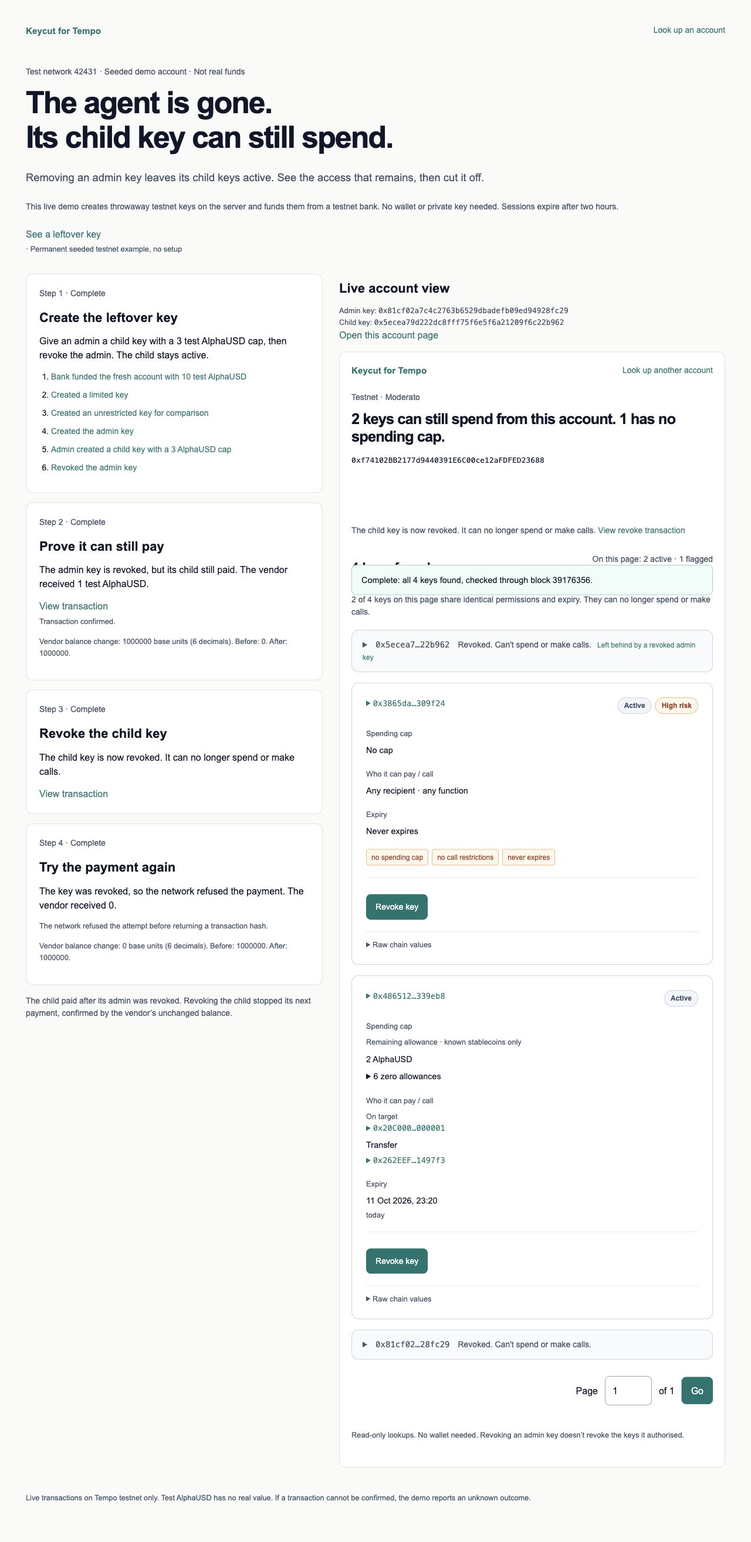
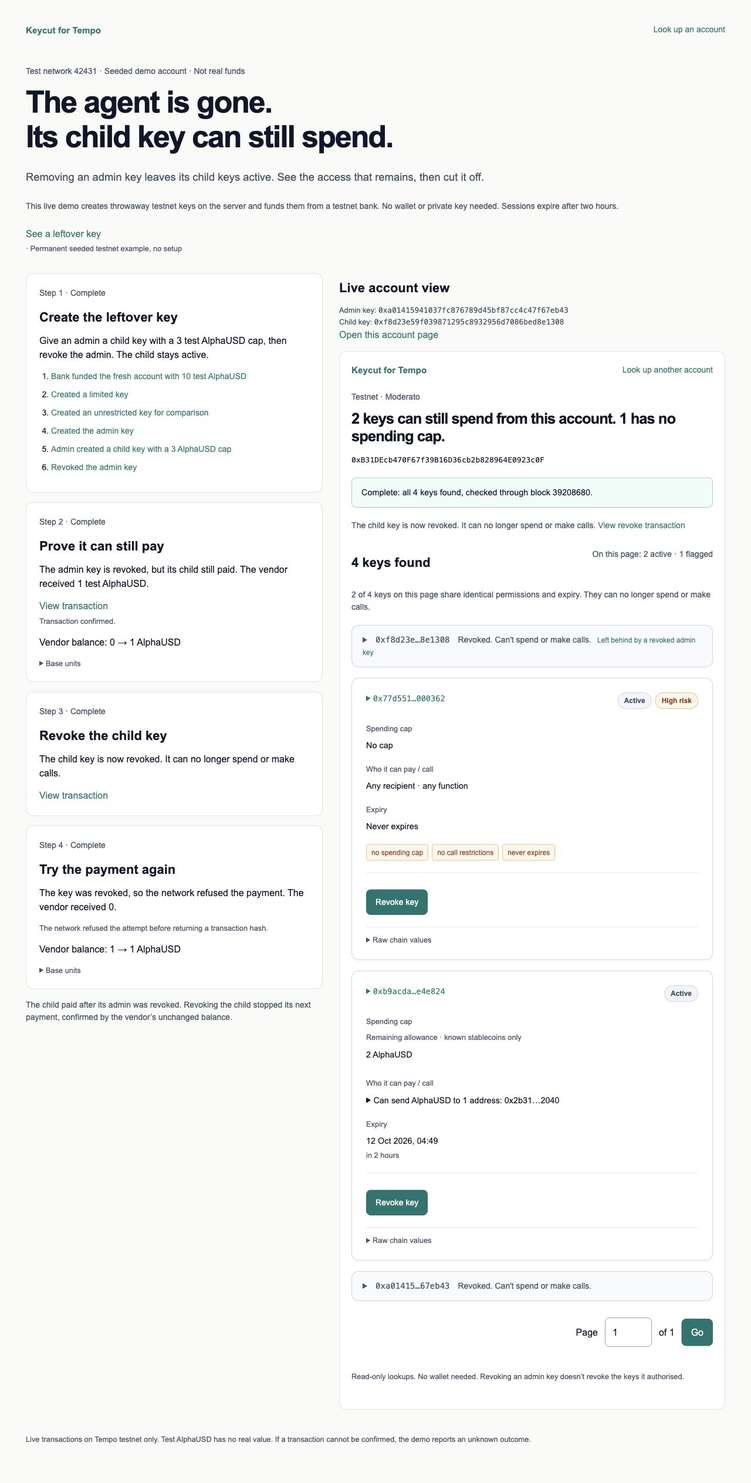
fix: polish demo permissions and judge walkthrough

diff --git a/components/key-card.tsx b/components/key-card.tsx
@@ -1,7 +1,8 @@
 'use client'
 
-import { formatUnits, toFunctionSelector } from 'viem'
+import { formatUnits } from 'viem'
 import { riskLevel } from '../lib/key-presentation'
+import { KeyScope } from './key-scope'
 import { DateValue } from './date-value'
 import { KeyAction } from './key-action'
 import { keyStatus } from '../lib/permissions'
@@ -11,9 +12,6 @@ export const shortAddress = (value: string) => `${value.slice(0, 8)}…${value.s
 function Address({ value }: { value: string }) {
   return <details className="address"><summary>{shortAddress(value)}</summary><code>{value}</code></details>
 }
-const functions: Record<string, string> = { '0xa9059cbb': 'Transfer', '0x095ea7b3': 'Approve', '0x23b872dd': 'Transfer from',
-  [toFunctionSelector('transferWithMemo(address,uint256,bytes32)')]: 'Transfer with memo' }
-
 export function KeyCard({ entry, nowSeconds, chain, permanent, onRevoke, disabled, disabledReason, leftover }: { entry: KeyResult; nowSeconds: number; chain: string; permanent?: boolean; onRevoke?: (key: string) => void; disabled?: boolean; disabledReason?: string; leftover?: boolean }) {
   const raw = entry.raw
   const never = raw && (BigInt(raw.expiry) === 0n || BigInt(raw.expiry) > 4_000_000_000n)
@@ -23,7 +21,6 @@ export function KeyCard({ entry, nowSeconds, chain, permanent, onRevoke, disable
   const rawDetails = <details className="raw"><summary>Raw chain values</summary><p className="subtext">First seen at block {entry.firstSeenBlock.toLocaleString()}. Event flags: {entry.eventFlags}.</p><pre>{JSON.stringify(raw, null, 2)}</pre></details>
   if (raw && (status === 'expired' || status === 'revoked')) return <details className="key-card compact-key" aria-label={`Key ${entry.key}`}><summary><span className="compact-address">{shortAddress(entry.key)}</span>{' '}<span>{status === 'expired' ? <>Expired <DateValue value={raw.expiry} showRelative={false} />. Can't spend or make calls.</> : <>Revoked. Can't spend or make calls.</>}</span>{leftover && <span className="leftover-label">Left behind by a revoked admin key</span>}</summary><div className="compact-body">{leftoverNote}<code>{entry.key}</code>{status === 'revoked' && raw.wasAdmin && <p className="subtext">Former admin key.</p>}{rawDetails}</div></details>
   const positiveLimits = raw?.limits.filter(token => BigInt(token.remaining) > 0n) ?? []
-  const zeroLimits = raw?.limits.filter(token => BigInt(token.remaining) === 0n) ?? []
   return <article className="key-card" aria-label={`Key ${entry.key}`}>
     <div className="card-heading"><Address value={entry.key} /><div className="card-badges"><span className={`badge ${status}`}>{status.charAt(0).toUpperCase() + status.slice(1)}</span>{risk && <span className={`badge risk-${risk}`}>{risk === 'high' ? 'High risk' : 'Review'}</span>}</div></div>
     {leftoverNote}<p className="sr-only">{entry.sentence}</p>
@@ -34,14 +31,9 @@ export function KeyCard({ entry, nowSeconds, chain, permanent, onRevoke, disable
           <span className="subtext">Remaining allowance · known stablecoins only</span>
           {positiveLimits.length === 0 && <p>No remaining allowance among known stablecoins</p>}
           {positiveLimits.map(token => <div className="token-line" key={token.address}><span>{formatUnits(BigInt(token.remaining), token.decimals)} {token.symbol}</span>{BigInt(token.periodEnd) > 0n && <span className="subtext">Period ends <DateValue value={token.periodEnd} /></span>}</div>)}
-          {zeroLimits.length > 0 && <details className="mt-2"><summary className="cursor-pointer">{zeroLimits.length} zero allowances</summary>{zeroLimits.map(token => <div className="token-line" key={token.address}>0 {token.symbol}{BigInt(token.periodEnd) > 0n && <span className="subtext">Period ends <DateValue value={token.periodEnd} /></span>}</div>)}</details>}
+
         </>}</dd></div>
-        <div><dt>Who it can pay / call</dt><dd>{!raw.isScoped ? 'Any recipient · any function' : raw.scopes.length === 0 ? 'No calls allowed' : raw.scopes.map((scope, i) => <div className="scope" key={i}>
-          <span className="subtext">On target</span><Address value={scope.target} />
-          {scope.selectorRules.length === 0 ? <p>Any function · any recipient</p> : scope.selectorRules.map((rule, j) => <div key={j} className="mt-2"><span>{functions[rule.selector.toLowerCase()] || `Function ${rule.selector}`}</span>
-            {rule.recipients.length === 0 ? <p>Any recipient</p> : <div className="payees">{rule.recipients.map(value => <Address key={value} value={value} />)}</div>}
-          </div>)}
-        </div>)}</dd></div>
+        <div><dt>Who it can pay / call</dt><dd><KeyScope raw={raw} chain={chain} /></dd></div>
         <div><dt>Expiry</dt><dd>{never ? 'Never expires' : <DateValue value={raw.expiry} />}</dd></div>
       </dl>
     </>}

diff --git a/components/key-scope.tsx b/components/key-scope.tsx
@@ -1,0 +1,20 @@
+import { toFunctionSelector } from 'viem'
+import tokens from '../lib/known-tokens.json'
+import type { KeyPermissions } from '../lib/permissions'
+const short = (value: string) => `${value.slice(0, 6)}…${value.slice(-4)}`
+const verbs: Record<string, string> = { '0xa9059cbb': 'Can send', '0x095ea7b3': 'Can approve',
+  '0x23b872dd': 'Can use transferFrom on', [toFunctionSelector('transferWithMemo(address,uint256,bytes32)')]: 'Can send with a memo' }
+export function KeyScope({ raw, chain }: { raw: KeyPermissions; chain: string }) {
+  if (!raw.isScoped) return <>Any recipient · any function</>
+  if (!raw.scopes.length) return <>No calls allowed</>
+  return <>{raw.scopes.map((scope, i) => {
+    const token = raw.limits.find(token => token.address.toLowerCase() === scope.target.toLowerCase()) ??
+      tokens.tokens.find(token => token.chainId === (chain === 'mainnet' ? 4217 : 42431) && token.address.toLowerCase() === scope.target.toLowerCase())
+    const target = token?.symbol ?? short(scope.target)
+    const rules = scope.selectorRules.length ? scope.selectorRules : [null]
+    return <div className="scope" key={i}>{rules.map((rule, j) => <details className="scope-detail" key={j}>
+      <summary>{rule ? <>{verbs[rule.selector.toLowerCase()] ?? `Can call function ${rule.selector} on`} {target} {rule.selector.toLowerCase() === '0x095ea7b3' ? 'for' : 'to'} {rule.recipients.length ? <>{rule.recipients.length} {rule.recipients.length === 1 ? 'address' : 'addresses'}: {rule.recipients.map(short).join(', ')}</> : 'any address'}</> : <>Can call any function on {target} for any recipient</>}</summary>
+      <div className="scope-values"><p>{token ? `Token: ${token.symbol}` : 'Target'}<br /><code>{scope.target}</code></p>{rule && <><p>Function selector: <code>{rule.selector}</code></p><p>{rule.recipients.length ? 'Allowed addresses' : 'Any address allowed'}</p>{rule.recipients.map(value => <code key={value}>{value}</code>)}</>}</div>
+    </details>)}</div>
+  })}</>
+}

diff --git a/components/demo-view.tsx b/components/demo-view.tsx
@@ -1,5 +1,6 @@
 'use client'
 import Link from 'next/link'
+import { formatUnits } from 'viem'
 import { useState } from 'react'
 import { createDemo, demoAction, type DemoReady, type ActionResult } from '../lib/demo-api'
 import type { DemoEvent } from '../lib/demo'
@@ -58,7 +59,7 @@ export function DemoView() {
           {index === 3 && <p>{results[3]?.explanation ?? 'Try another 1 test AlphaUSD payment. The vendor’s balance decides whether anything arrived.'}</p>}
           {results[index]?.url && <a href={results[index].url!} target="_blank" rel="noreferrer">View transaction</a>}
           {results[index]?.submission && <p className="subtext">{results[index].submission}</p>}
-          {results[index]?.vendorReceived !== undefined && <p className="subtext">Vendor balance change: {results[index].vendorReceived} base units (6 decimals). Before: {results[index].before}. After: {results[index].after}.</p>}
+          {results[index]?.vendorReceived !== undefined && <div className="vendor-balance"><p>Vendor balance: {formatUnits(BigInt(results[index].before!), 6)} → {formatUnits(BigInt(results[index].after!), 6)} AlphaUSD</p><details><summary>Base units</summary><p className="subtext">6 decimals. Before: {results[index].before}. After: {results[index].after}. Change: {results[index].vendorReceived}.</p></details></div>}
           {step === index && <button disabled={busy} onClick={run}>{busy ? 'Waiting for the test network…' : index === 0 ? 'Create demo account' : index === 1 ? 'Make the child pay' : index === 2 ? 'Revoke the child key' : 'Attempt the payment'}</button>}
         </article>)}
         {error && <div role="alert" className="state-panel"><h2>Couldn’t confirm this step</h2><p>{error}</p><p><Link href={`/testnet/${example.account}`} prefetch={true}>See a leftover key</Link></p>{transactions.length > 0 && !ready && <p className="subtext">Setup transactions above may have completed. Reloading starts a different throwaway account.</p>}</div>}

diff --git a/components/date-value.tsx b/components/date-value.tsx
@@ -1,4 +1,5 @@
 'use client'
+import { relativeExpiry } from '../lib/relative-expiry'
 import { useEffect, useState } from 'react'
 export function DateValue({ value, showRelative = true }: { value: string; showRelative?: boolean }) {
   const [local, setLocal] = useState(false)
@@ -6,6 +7,5 @@ export function DateValue({ value, showRelative = true }: { value: string; showR
   const date = new Date(Number(value) * 1000)
   const formatted = new Intl.DateTimeFormat('en-GB', { day: 'numeric', month: 'short', year: 'numeric',
     hour: '2-digit', minute: '2-digit', hourCycle: 'h23', ...(!local ? { timeZone: 'UTC' } : {}) }).format(date)
-  const days = Math.round((date.getTime() - Date.now()) / 86_400_000)
-  return <><time dateTime={date.toISOString()}>{formatted}</time>{showRelative && <span className="subtext" suppressHydrationWarning>{Math.abs(days) < 1 ? 'today' : new Intl.RelativeTimeFormat('en-GB', { numeric: 'auto' }).format(days, 'day')}</span>}</>
+  return <><time dateTime={date.toISOString()}>{formatted}</time>{showRelative && <span className="subtext" suppressHydrationWarning>{relativeExpiry(date.getTime(), Date.now())}</span>}</>
 }

diff --git a/app/globals.css b/app/globals.css
@@ -108,3 +108,12 @@ footer { margin-top: 40px; color: #475569; font-size: .8rem; line-height: 1.7; p
 .leftover-note { margin: 12px 0; }
 .leftover-note p { margin-top: 5px; }
 .leftover-label { color: #0f766e; font-size: 12px; }
+
+/* Embedded coverage stays beside its content instead of sticking over the grid. */
+.embedded-account .coverage { position: static; margin: 20px 0; }
+.scope-detail summary { cursor: pointer; color: #0f172a; line-height: 1.6; }
+.scope-values { font-size: .8rem; color: #475569; margin-top: 10px; }
+.scope-values p { margin: 8px 0; }
+.scope-values code { display: block; overflow-wrap: anywhere; }
+.vendor-balance details { font-size: .8rem; color: #475569; }
+.vendor-balance summary { cursor: pointer; }

diff --git a/tests/relative-expiry.test.ts b/tests/relative-expiry.test.ts
@@ -1,0 +1,11 @@
+import test from 'node:test'
+import assert from 'node:assert/strict'
+import { relativeExpiry } from '../lib/relative-expiry'
+test('short expiry uses hours or minutes instead of a calendar-day label', () => {
+  const now=1_000_000
+  assert.equal(relativeExpiry(now+2*3600_000,now),'in 2 hours')
+  assert.equal(relativeExpiry(now+30*60_000,now),'in 30 minutes')
+  assert.equal(relativeExpiry(now+23*3600_000,now),'in 23 hours')
+  assert.equal(relativeExpiry(now+3*86400_000,now),'in 3 days')
+  assert.equal(relativeExpiry(now-2*3600_000,now),'2 hours ago')
+})

diff --git a/lib/relative-expiry.ts b/lib/relative-expiry.ts
@@ -1,0 +1,7 @@
+export function relativeExpiry(expiryMs: number, nowMs: number) {
+  const seconds = (expiryMs - nowMs) / 1000
+  const unit = Math.abs(seconds) < 3600 ? 'minute' : Math.abs(seconds) < 86400 ? 'hour' : 'day'
+  const divisor = unit === 'minute' ? 60 : unit === 'hour' ? 3600 : 86400
+  const amount = Math.sign(seconds) * Math.max(1, Math.round(Math.abs(seconds) / divisor))
+  return new Intl.RelativeTimeFormat('en-GB', { numeric: 'always' }).format(amount, unit)
+}

diff --git a/README.md b/README.md
@@ -1,49 +1,66 @@
 # Keycut for Tempo
 
-Keycut helps Tempo account owners find access keys, understand what they can spend and cut unwanted access.
+See who can spend. Cut unwanted access.
+
+Keycut shows every access key that can spend from a Tempo account, explains each one in plain words, and helps the owner cut off the ones they don't want. It is for teams that give AI agents and apps permission to pay on Tempo.
+
+[Live app](https://keycut.ajkadri.dev) · [Live demo](https://keycut.ajkadri.dev/demo) · [Permanent example](https://keycut.ajkadri.dev/testnet/0xE5CB1Dd82e60Df2A1cd6b58dF218aea7d535521A) · Demo video: coming
 
 ## The problem
 
-Removing an agent’s admin key can leave its child key active. On Tempo testnet, that child can still pay until it expires or is revoked itself. Mainnet lookups work too, but this admin-and-child case is demonstrated only on testnet.
+Apps and agents get spending power through access keys. An account can collect many keys over time. The chain has no function that lists them, and no tool we found lists these keys. Token-approval checkers don't cover access keys.
 
-An address lookup combines indexed key events with a live top-up and current permissions. It shows coverage, allowances, recipients, expiry and access before risk. It doesn't infer which key created another key.
+Our indexed snapshots from 11 Oct 2026, 20:16 UTC show:
+
+| Network | Keys | Accounts | Keys ever revoked |
+|---|---:|---:|---:|
+| Testnet | 303,164 | 229,526 | 10,990 (3.6%) |
+| Mainnet | 12,512 | 5,422 | 764 (6.1%) |
+
+These are dated snapshots from the [testnet](public/index/42431/meta.json) and [mainnet](public/index/4217/meta.json) metadata, not current totals. Each account lookup tops up its history and reads current permissions, with coverage shown.
+
+An agent’s admin key can create a child key, and revoking the admin leaves that child able to pay. Keycut shows the remaining access, then the owner revokes the child and its next payment is refused, as demonstrated on Tempo testnet only.
 
 ## Walk through the leftover key
 
-All accounts below are seeded testnet accounts. Test AlphaUSD isn't real money.
+All demo accounts are seeded testnet accounts. Test AlphaUSD isn't real money.
 
-1. Open [the live demo](https://keycut.ajkadri.dev/demo) and choose **Create demo account**. A pre-funded bank sends 10 test AlphaUSD to a fresh account. An admin creates a child with a 3 AlphaUSD cap and one allowed vendor. The owner revokes the admin. The actual account panel pins the child first and labels its setup-known relationship.
+1. Open the [live demo](https://keycut.ajkadri.dev/demo) and choose Create demo account. A testnet bank funds a fresh account. An admin creates a child with a 3 AlphaUSD cap and one allowed vendor, then the owner revokes the admin. The actual account panel shows the child first. Its admin link is known from setup, not inferred from the chain.
 
-   ![A revoked admin leaves its child active, shown first in the live account panel](public/screenshots/leftover-key.jpg)
+   ![The child remains active after its admin is revoked, with its allowance, vendor and expiry shown in plain words](public/screenshots/leftover-key.jpg)
 
-2. Choose **Make the child pay**. The child sends 1 test AlphaUSD after the admin has been revoked. The vendor’s before/after balance proves the payment, and the transaction link is shown.
-3. Choose **Revoke key** on the child card, or **Revoke the child key** in step 3. The real keychain state changes, and the card becomes a compact revoked row.
-4. Choose **Attempt the payment**. The vendor receives 0. The explanation comes from its unchanged balance and the child’s confirmed revocation. An unbroadcast refusal has no transaction link. Transport or receipt uncertainty is reported as unconfirmed.
+2. Choose Make the child pay. The child sends 1 AlphaUSD after its admin was revoked. The vendor’s balance goes from 0 to 1 AlphaUSD, proving the payment. The transaction link is shown.
+3. Choose Revoke key on the child card, or Revoke the child key in step 3. The chain revokes it, and its card becomes a compact revoked row.
+4. Choose Attempt the payment. The vendor’s balance stays at 1 AlphaUSD, so it received 0. The explanation uses the unchanged balance and confirmed revocation. A refusal before broadcast has no transaction link. An uncertain outcome is reported as unconfirmed.
 
-   ![The four completed steps show the successful control and zero received after child revocation](public/screenshots/demo-complete.jpg)
+   ![Completed real testnet steps show the vendor received nothing after the child was revoked](public/screenshots/demo-complete.jpg)
 
-The [permanent leftover example](https://keycut.ajkadri.dev/testnet/0xE5CB1Dd82e60Df2A1cd6b58dF218aea7d535521A) needs no setup or bank funding. Its child has a small cap and a finite one-year expiry. Its signing keys were discarded, so its action opens a fresh demo. The admin link is known from setup evidence, not read from the chain.
+The [permanent example](https://keycut.ajkadri.dev/testnet/0xE5CB1Dd82e60Df2A1cd6b58dF218aea7d535521A) needs no setup. Its child has a small cap and a finite one-year expiry. Its signing keys were discarded, so its revoke action opens a fresh demo. Real accounts have an exact owner-client command to copy; connected-wallet revoke isn't built.
 
 ## How Tempo is used
 
-- Networks: Moderato testnet, chain 42431, and mainnet, chain 4217. `viem@2.57.4` supplies the Tempo client, account types and keychain ABI. All writes are testnet-only.
-- Discovery: `KeyAuthorized`, `AdminKeyAuthorized` and `KeyRevoked` logs from the account keychain at `0xaAAAaaAA00000000000000000000000000000000`. Static shards cover indexed history. An account-specific `eth_getLogs` top-up scans later blocks in bounded ranges, with four workers. Missing ranges remain visible as partial coverage.
-- Permissions: `getKey`, `isAdminKey`, `getAllowedCalls` and `getRemainingLimitWithPeriod`, at one captured block. Page-wide reads use Multicall3 at `0xcA11bde05977b3631167028862bE2a173976CA11`, verified against direct reads on both networks. Only active keys with enforced limits get allowance reads. Bounded direct reads handle aggregate failures.
-- Revocation: the owner’s `client.accessKey.revokeSync({ accessKey: keyId })` calls the keychain’s `revokeKey`. The child itself must be revoked. Revoking its admin doesn't revoke the child. The admin creates the child with `authorizeKey`. Payments use TIP-20 `transfer`, with explicit gas and vendor balance checks.
-- Limits: a fixed known-stablecoin subset from Tempo’s token lists. Other tokens aren't covered. `transferFrom` isn't covered by spending limits. Raw fields are expandable.
+Keycut reads Moderato testnet (42431) and Tempo mainnet (4217) through `viem@2.57.4`. All writes are testnet-only.
+
+The account keychain at `0xaAAAaaAA00000000000000000000000000000000` emits `KeyAuthorized`, `AdminKeyAuthorized` and `KeyRevoked`. Keycut indexes these events into static shards, then scans later account events during lookup. Failed ranges remain visible as partial coverage. The chain doesn't record which key authorised another key in these events.
+
+Permissions come from `getKey`, `isAdminKey`, `getAllowedCalls` and `getRemainingLimitWithPeriod` at one captured block. Page-wide reads use Multicall3 at `0xcA11bde05977b3631167028862bE2a173976CA11`, checked against direct reads on both chains. Only active capped keys get allowance reads. Aggregate failures use bounded direct reads; unresolved failures remain partial.
+
+The admin creates its child with `authorizeKey`. The owner’s `client.accessKey.revokeSync({ accessKey: keyId })` calls `revokeKey` on that child. Payments use TIP-20 `transfer` with explicit gas. Vendor balances decide whether anything arrived.
+
+Allowances cover a fixed list of known stablecoins. Other tokens aren't covered, and `transferFrom` isn't covered by spending limits. Full permissions and addresses remain expandable.
 
 ## Verify it yourself
 
-Open [Keycut](https://keycut.ajkadri.dev), [the permanent example](https://keycut.ajkadri.dev/testnet/0xE5CB1Dd82e60Df2A1cd6b58dF218aea7d535521A), or [the known four-key account](https://keycut.ajkadri.dev/testnet/0x907B843c995E9332caf4A0A832B2B1fbCD1E9477).
+A judge can check the [hosted demo](https://keycut.ajkadri.dev/demo) without a wallet, or open the [permanent example](https://keycut.ajkadri.dev/testnet/0xE5CB1Dd82e60Df2A1cd6b58dF218aea7d535521A) with no setup. The [known four-key account](https://keycut.ajkadri.dev/testnet/0x907B843c995E9332caf4A0A832B2B1fbCD1E9477) shows two revoked keys and live coverage. Expand raw values and follow the transaction links to check the evidence.
 
-Node.js 20.9 or newer:
+For an independent live check, run:
 
 ```sh
 npm ci
 npm run verify
 ```
 
-The verifier prints the keys and block ranges from the product’s index plus top-up. It creates one fresh throwaway testnet account, seeds it with faucet funds, and prints PASS or FAIL per claim. Expected claims include:
+It prints the known keys and covered block ranges using the product’s index plus top-up, then runs the leftover-key case on a fresh seeded testnet account. Expected claims include:
 
 ```text
 PASS Product finds the four known keys from the address: 4 keys found using the product index plus top-up
@@ -57,41 +74,23 @@ PASS Child still pays after its admin key is revoked: admin revoked=true, vendor
 PASS Revoking the child stops its payment: revoked=true, vendor balance change 0 base units
 ```
 
-Any failed claim exits nonzero. No hosted-indexer probe or mainnet write. The standalone verifier uses the faucet once per run. Public demo creation never calls it.
-
-```sh
-npm test
-npm run typecheck
-node --import tsx scripts/check-multicall.ts
-npm run index:build -- --chain testnet
-npm run index:build -- --chain mainnet
-npm run build
-npm start
-```
-
-Open `http://localhost:3000`. Index builds merge only newer blocks into committed shards. A failed scan leaves the published snapshot unchanged. Build away from the running server, then deploy the completed snapshot with the app. Home shows each `meta.json` snapshot’s counts and date. Lookups return up to 25 keys per page and cache complete results for 30 seconds. API pages are newest-first; cards sort within the current page, with the known demo child first. A headline on a multi-page account describes only that page.
-
-For the live demo, set `KEYCUT_BANK_PRIVATE_KEY`, `KEYCUT_DEMO_SECRET` (at least 32 random characters), and `KEYCUT_DEMO_ORIGIN` in the server environment. Never commit their values. Use a throwaway testnet bank. Check [health](https://keycut.ajkadri.dev/api/health) for conservative remaining capacity, budgeting 10 test AlphaUSD for funding and 1 for bank fees per demo. It reveals no credentials.
-
-```sh
-node --import tsx scripts/demo-bank.ts status
-node --import tsx scripts/demo-bank.ts top-up
-```
-
-Only explicit `top-up` calls the faucet for the bank. Deploy one process behind Caddy on loopback. Lookups allow 30 requests per IP per minute, demo creation five per hour. Plain 429 responses include `Retry-After`; counters reset on restart. Demo sessions are encrypted, authenticated, expire after two hours and stay only in browser memory. Reloading loses the session. Routes refuse other chains, browser private keys and unrelated key IDs. Interrupted setup may leave a funded throwaway account.
+Each claim prints PASS or FAIL. Any failure exits nonzero. This optional verifier uses faucet funds once per run and never writes to mainnet. The public demo uses its pre-funded bank.
 
 ## What is shipped
 
 | State | What it covers |
 |---|---|
-| Live | Address discovery, history top-up, current permissions, raw reads, page navigation and coverage on testnet/mainnet. Testnet demo transactions, child revoke and balance-based refusal. Multicall parity script. |
-| Seeded | Fresh bank-funded testnet demo accounts and one permanent leftover example. The child/admin link comes only from known setup. |
-| Snapshot | Network counts and event history in dated committed shards. Later events are read during account top-up. |
-| Simplified | Known stablecoins only; 30-second cache; process-local rate limits; conservative bank capacity. High risk means uncapped spending, unrestricted calls or empty recipients. Review covers admin keys or expiry beyond 30 days, including no expiry. RPC latency can vary. |
-| Not built | Connected-wallet revoke for real accounts, inferred lineage, spend history, scheduled refresh, alerts or automatic revoke. Real accounts get an exact owner-client command to copy. |
+| Live | Address discovery, history top-up, current permissions, raw values, pagination and coverage on both networks. Testnet demo payments, child revocation and balance-based refusal. |
+| Seeded | Fresh testnet demo accounts and one permanent leftover example. The child/admin relationship is known only from setup. |
+| Snapshot | Network counts and key history in dated committed shards. Account lookups read later events. |
+| Simplified | Allowances for known stablecoins only. Risk labels flag broad access, admin keys and expiry beyond 30 days. Unknown spending access stays explicit. RPC latency can vary. |
+| Not built | Connected-wallet revoke for real accounts, inferred lineage, spend history, scheduled refresh, team alerts or automatic revoke. Real accounts get a command to copy. |
+
+Server setup, environment variables, rate limits, bank maintenance and index operations are in [OPERATIONS.md](docs/OPERATIONS.md). The [1024px PNG logo](public/logo.png) and [MIT license](LICENSE) are included.
 
 ## What comes next
 
-Record the live demo and pitch videos. After the demo video, the planned next work is connected-wallet revocation, proven lineage, spend history and scheduled index refresh. None is claimed as shipped.
-
-Licensed under [MIT](LICENSE).
+- Wallet revoke for real accounts.
+- Key lineage backed by verified authorisation evidence.
+- Spend history per key.
+- Alerts for teams.

diff --git a/docs/OPERATIONS.md b/docs/OPERATIONS.md
@@ -1,0 +1,76 @@
+# Operations
+
+## Run the app
+
+Use Node.js 20.9 or newer. `viem` stays pinned at 2.57.4.
+
+```sh
+npm ci
+npm test
+npm run typecheck
+npm run build
+npm start
+```
+
+Open `http://localhost:3000`. The app uses plain `next start`, static index files and live RPC reads. It needs no database. Deploy one process behind Caddy on loopback so its client IP header is trusted.
+
+`GET /api/blocks` reads the latest block and chain ID of testnet (42431) and mainnet (4217) from the server. Unavailable networks return HTTP 503. `GET /api/health` reads conservative testnet bank capacity without exposing credentials. It budgets 10 test AlphaUSD for each account and 1 for bank transfer fees. A failed bank read returns HTTP 503 with null capacity.
+
+## Refresh the index
+
+```sh
+npm run index:build -- --chain testnet
+npm run index:build -- --chain mainnet
+```
+
+The first build can import complete local `key-index-42431.json` and `key-index-4217.json` snapshots. Committed shards make those raw files optional. Later builds scan only blocks after `meta.json.completeThroughBlock` and merge new events into 256 shards per network. Without an index or import, the builder starts at block 0.
+
+Failed or skipped ranges abort publication and preserve the existing snapshot. Build away from the running server, then deploy the completed snapshot with the app. Home reads the counts and timestamp from each `meta.json`. Refresh is manual.
+
+## Lookups
+
+```sh
+curl 'http://localhost:3000/api/keys?chain=testnet&address=0x907B843c995E9332caf4A0A832B2B1fbCD1E9477&page=1'
+```
+
+Use `chain=testnet|mainnet` and a valid Tempo account address. API pages contain up to 25 keys, newest first. Cards sort within that page by active risk, expired and revoked state, with the known demo child first. Multi-page verdicts describe only the current page.
+
+Lookup loads a shard, scans newer events and reads current permissions at one captured block. Complete lookups are cached in server memory for 30 seconds. `coveredRanges`, `missingRanges`, `completeThroughBlock`, `discoveryComplete` and `readsComplete` expose gaps. Any failed range or permission read produces a partial result.
+
+`/api/keys` allows 30 requests per IP per minute. Demo creation allows five attempts per IP per hour. HTTP 429 responses use a plain message and `Retry-After`. These counters are held in one process and reset on restart. RPC delays vary.
+
+## Configure the testnet demo
+
+Set these values in the server environment only:
+
+| Variable | Purpose |
+|---|---|
+| `KEYCUT_BANK_PRIVATE_KEY` | A throwaway testnet bank key. Never use a mainnet key. |
+| `KEYCUT_DEMO_SECRET` | At least 32 random characters for authenticated encrypted sessions. |
+| `KEYCUT_DEMO_ORIGIN` | The public origin, such as `https://keycut.ajkadri.dev`, for POST origin checks behind the proxy. |
+
+Never commit the values. The bank funds each fresh account with 10 test AlphaUSD. Demo creation never calls the faucet. Check capacity before a demo:
+
+```sh
+node --import tsx scripts/demo-bank.ts status
+node --import tsx scripts/demo-bank.ts top-up
+```
+
+Only explicit `top-up` calls the faucet for the bank. The existing permanent example needs no funding or setup to view. Its signing keys were discarded; do not create another example to refresh its state.
+
+Routes accept only numeric `chainId: 42431`. Pay and revoke require a server-issued authenticated session. Routes reject browser private keys, other networks, unrelated key IDs and cross-origin calls. Sessions expire after two hours and stay only in browser memory. Reloading loses the session. Keys are generated on the server, encrypted into the session and never written to disk. Bank funding and per-account actions are serialized. Interrupted setup may leave a funded throwaway account. A standalone account tab has no session capability, so it shows the owner-client command.
+
+## Verification
+
+```sh
+npm test
+npm run typecheck
+node --import tsx scripts/check-multicall.ts
+npm run verify
+```
+
+The parity script checks Multicall3 bytecode and compares all four permission reads with direct calls at the same block on both chains. Aggregate failures in the product fall back to bounded direct reads. Unresolved failures stay partial.
+
+The product verifier prints the known testnet keys and coverage, then creates one fresh faucet-funded testnet account for the leftover-key case. It checks a successful control, confirmed admin/child revocations and vendor balance changes. It exits nonzero on a failed claim. It makes no mainnet writes and runs no hosted-indexer probe.
+
+Original research scripts remain in `scripts/gates/`. `npm run keywatch` runs the original gate with benchmarks and probes. `npm run index` runs the original network probe and may take several minutes. Neither is needed to view the hosted product.
